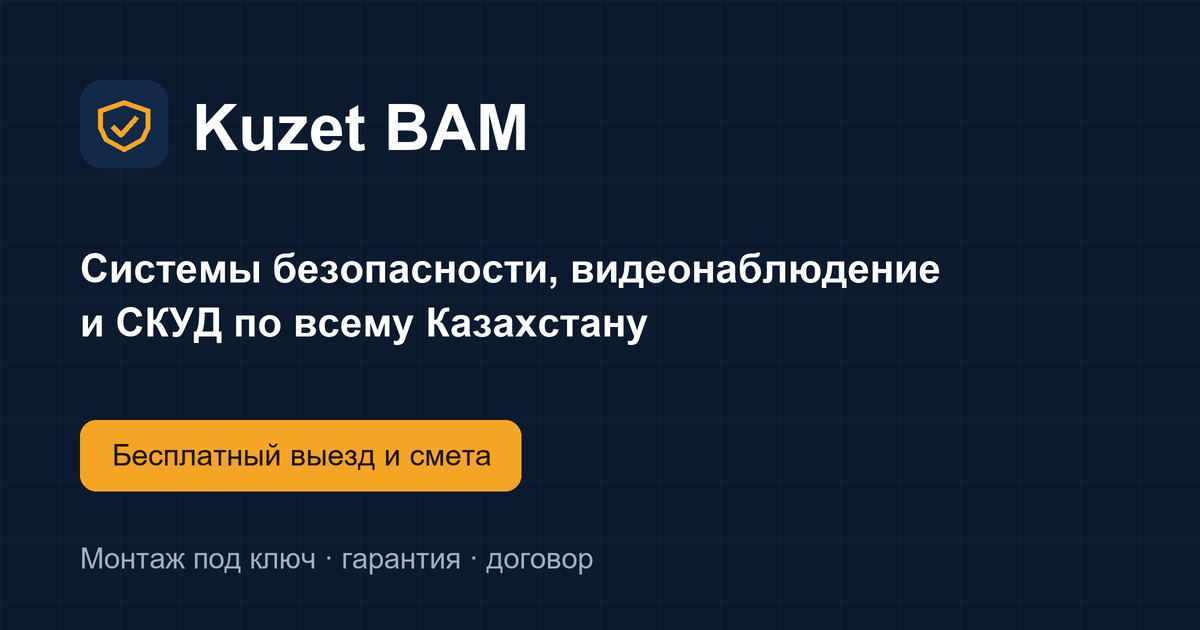
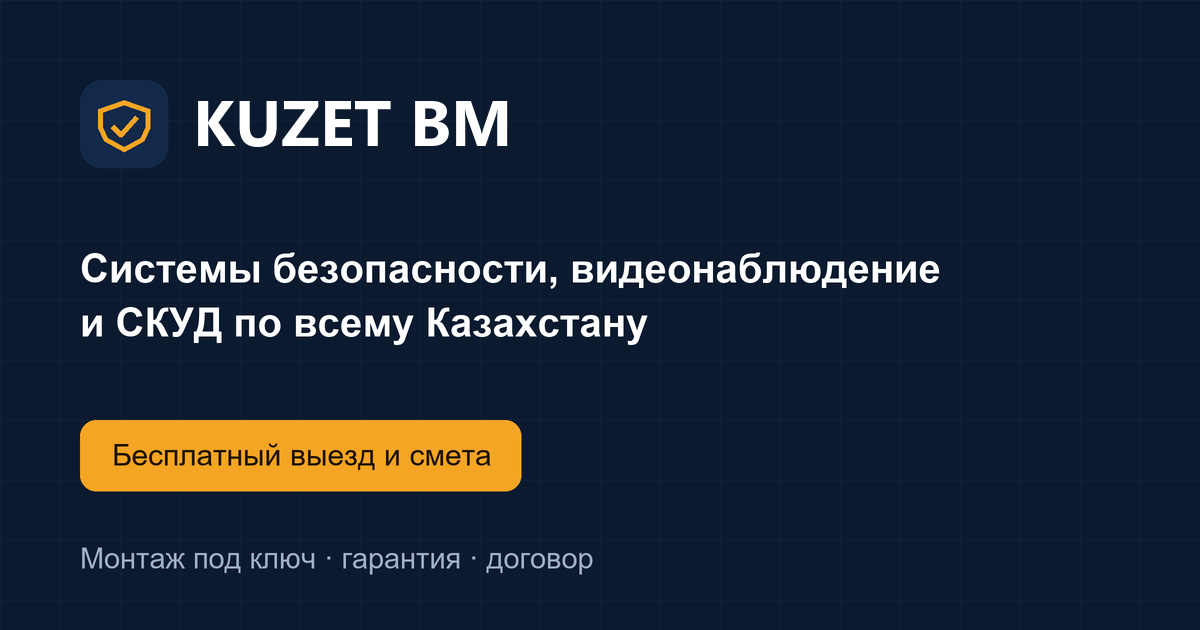
feat: переименование бренда в KUZET BM и SEO-доработки
- Название компании Kuzet BAM → KUZET BM: настройки, .env.example, README,
  OG-картинка для соцсетей
- «Ajax, RAPTOR, STEMAX, Dahua и т.д.» → «и другие» (kk: «және басқа дабылдар»)
- Data-миграция core.0002 обновляет уже сохранённый контент в базе
- Мета-теги подтверждения Google Search Console и Яндекс Вебмастера
  (GOOGLE_SITE_VERIFICATION, YANDEX_VERIFICATION), twitter:card,
  logo в микроразметке LocalBusiness

Changed region(s): [[0.1542, 0.1508, 0.4625, 0.2413]]

diff --git a/templates/base.html b/templates/base.html
@@ -16,7 +16,10 @@
   <meta property="og:url" content="{{ CANONICAL }}">
   <meta property="og:image" content="{{ SITE_URL }}{% static 'img/og.png' %}">
   <meta property="og:locale" content="{% if LANG == 'kk' %}kk_KZ{% elif LANG == 'en' %}en_US{% else %}ru_RU{% endif %}">
+  <meta name="twitter:card" content="summary_large_image">
   <meta name="theme-color" content="#0b1b30">
+  {% if ANALYTICS.google_verification %}<meta name="google-site-verification" content="{{ ANALYTICS.google_verification }}">{% endif %}
+  {% if ANALYTICS.yandex_verification %}<meta name="yandex-verification" content="{{ ANALYTICS.yandex_verification }}">{% endif %}
   <link rel="icon" href="{% static 'img/favicon.svg' %}" type="image/svg+xml">
   <link rel="preconnect" href="https://fonts.googleapis.com">
   <link rel="preconnect" href="https://fonts.gstatic.com" crossorigin>

diff --git a/static/css/site.css b/static/css/site.css
@@ -1,5 +1,5 @@
 /* ==========================================================================
-   Kuzet BAM — дизайн-система сайта
+   KUZET BM — дизайн-система сайта
    Цвета и размеры — токены в :root. Меняйте бренд здесь, а не в компонентах.
    ========================================================================== */
 

diff --git a/static/js/site.js b/static/js/site.js
@@ -1,4 +1,4 @@
-/* Kuzet BAM — интерактив сайта: меню, модалка, формы заявок, метки рекламы, цели аналитики. */
+/* KUZET BM — интерактив сайта: меню, модалка, формы заявок, метки рекламы, цели аналитики. */
 (function () {
   "use strict";
 

diff --git a/core/migrations/0002_rebrand_kuzet_bm.py b/core/migrations/0002_rebrand_kuzet_bm.py
@@ -1,0 +1,47 @@
+"""Обновляет уже сохранённый контент: название бренда и формулировку «и т.д.» → «и другие»."""
+
+from django.db import migrations
+
+REPLACEMENTS = [
+    ("Kuzet BAM", "KUZET BM"),
+    ("Ajax, RAPTOR, STEMAX, Dahua и т.д.", "Ajax, RAPTOR, STEMAX, Dahua и другие"),
+    ("Ajax, RAPTOR, STEMAX, Dahua және т.б. дабылдары", "Ajax, RAPTOR, STEMAX, Dahua және басқа дабылдар"),
+]
+
+MODELS = [
+    ("core", "Page"),
+    ("services", "Service"),
+    ("services", "Package"),
+    ("services", "FAQ"),
+    ("cases", "Case"),
+]
+
+
+def forwards(apps, schema_editor):
+    for app_label, model_name in MODELS:
+        model = apps.get_model(app_label, model_name)
+        text_fields = [f.name for f in model._meta.fields if f.get_internal_type() in ("CharField", "TextField")]
+        for obj in model.objects.all():
+            changed = []
+            for name in text_fields:
+                value = getattr(obj, name)
+                if not value:
+                    continue
+                new = value
+                for old, repl in REPLACEMENTS:
+                    new = new.replace(old, repl)
+                if new != value:
+                    setattr(obj, name, new)
+                    changed.append(name)
+            if changed:
+                obj.save(update_fields=changed)
+
+
+class Migration(migrations.Migration):
+    dependencies = [
+        ("core", "0001_initial"),
+        ("services", "0002_alter_service_icon"),
+        ("cases", "0001_initial"),
+    ]
+
+    operations = [migrations.RunPython(forwards, migrations.RunPython.noop)]

diff --git a/core/demo_data.py b/core/demo_data.py
@@ -16,7 +16,7 @@ SERVICES = [
         "icon": "hub",
         "order": 1,
         "price_from": 100000,
-        "title": T("Сигнализация Ajax, RAPTOR, STEMAX, Dahua и т.д.", "Ajax, RAPTOR, STEMAX, Dahua және т.б. дабылдары", "Ajax, RAPTOR, STEMAX, Dahua and other alarm systems"),
+        "title": T("Сигнализация Ajax, RAPTOR, STEMAX, Dahua и другие", "Ajax, RAPTOR, STEMAX, Dahua және басқа дабылдар", "Ajax, RAPTOR, STEMAX, Dahua and other alarm systems"),
         "h1": T("Установка сигнализации Ajax, RAPTOR, STEMAX, Dahua в Казахстане", "Қазақстанда Ajax, RAPTOR, STEMAX, Dahua дабылдарын орнату", "Ajax, RAPTOR, STEMAX and Dahua alarm installation in Kazakhstan"),
         "offer": T(
             "Беспроводная охранная система с управлением со смартфона. Монтаж квартиры — за 1 день, без штробления стен.",

diff --git a/config/settings.py b/config/settings.py
@@ -158,7 +158,7 @@ LEAD_NOTIFY_EMAILS = env_list("LEAD_NOTIFY_EMAILS")
 
 # --- Бренд и контакты (подтягиваются из конфига) -------------------------
 BRAND = {
-    "name": env("BRAND_NAME", "Kuzet BAM"),
+    "name": env("BRAND_NAME", "KUZET BM"),
     "phone": env("CONTACT_PHONE", "+7 707 884 19 22"),
     "whatsapp": env("CONTACT_WHATSAPP", "77078841922"),
     "telegram": env("CONTACT_TELEGRAM", "saqshy_kz"),
@@ -184,6 +184,9 @@ ANALYTICS = {
     "metrika": env("YANDEX_METRIKA_ID"),
     "gads": env("GOOGLE_ADS_ID"),
     "gads_lead_label": env("GOOGLE_ADS_LEAD_LABEL"),
+    # Коды подтверждения прав на сайт (мета-теги из Google Search Console и Яндекс Вебмастера)
+    "google_verification": env("GOOGLE_SITE_VERIFICATION"),
+    "yandex_verification": env("YANDEX_VERIFICATION"),
 }
 
 # --- Telegram ------------------------------------------------------------

diff --git a/core/seo.py b/core/seo.py
@@ -18,6 +18,7 @@ def local_business() -> dict:
         "telephone": brand["phone"],
         "email": brand["email"],
         "image": absolute("/static/img/og.png"),
+        "logo": absolute("/static/img/favicon.svg"),
         "priceRange": "₸₸",
         "address": {
             "@type": "PostalAddress",

diff --git a/README.md b/README.md
@@ -1,4 +1,4 @@
-# Kuzet BAM — сайт и CRM для установки охранных систем
+# KUZET BM — сайт и CRM для установки охранных систем
 
 Лендинги услуг (сигнализация, видеонаблюдение, СКУД, слаботочные системы) на трёх языках
 (русский, казахский, английский), приём заявок, собственная CRM для сотрудников и Telegram-бот.
